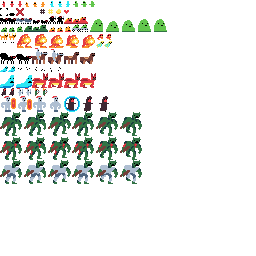
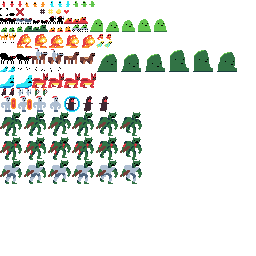
add ultra slime

Changed region(s): [[0.375, 0.1875, 0.9375, 0.2812]]

diff --git a/src/enemy.rs b/src/enemy.rs
@@ -202,6 +202,18 @@ static TROLL: EnemyType = EnemyType {
     payload: EnemyPayload::Some(&INJURED_TROLL, 1),
     ..INJURED_TROLL
 };
+static GIGA_SLIME: EnemyType = EnemyType {
+    name: "giga_slime",
+    sprite: 2 * 32 + 11,
+    anim_length: 5,
+    damage: 0,
+    speed: 0.35,
+    size: 2,
+    max_health: 261.0,
+    damage_resistance: DamageResistance::Partial(DamageType::Pierce),
+    payload: EnemyPayload::Some(&BIG_FIRE_SLIME, 8),
+    ..DEFAULT_ENEMY_TYPE
+};
 pub static ENEMY_TYPES: &[EnemyType] = &[
     HORSEY,
     EnemyType {
@@ -396,18 +408,7 @@ pub static ENEMY_TYPES: &[EnemyType] = &[
         payload: EnemyPayload::Some(&GIGA_CULTIST, 1),
         ..DEFAULT_ENEMY_TYPE
     },
-    EnemyType {
-        name: "giga_slime",
-        sprite: 2 * 32 + 11,
-        anim_length: 5,
-        damage: 20,
-        speed: 0.35,
-        size: 2,
-        max_health: 261.0,
-        damage_resistance: DamageResistance::Partial(DamageType::Pierce),
-        payload: EnemyPayload::Some(&BIG_FIRE_SLIME, 8),
-        ..DEFAULT_ENEMY_TYPE
-    },
+    GIGA_SLIME,
     TROLL,
     EnemyType {
         name: "armored_troll",
@@ -427,5 +428,17 @@ pub static ENEMY_TYPES: &[EnemyType] = &[
         damage: 2,
         damage_resistance: DamageResistance::Partial(DamageType::Magic),
         ..DEFAULT_ENEMY_TYPE
+    },
+    EnemyType {
+        name: "ultra_slime",
+        sprite: 6 * 32 + 12,
+        speed: 0.30,
+        anim_length: 6,
+        size: 3,
+        max_health: 350.0,
+        anim_speed: 1.5,
+        damage: 0,
+        payload: EnemyPayload::Some(&GIGA_SLIME, 2),
+        ..GIGA_SLIME
     },
 ];
